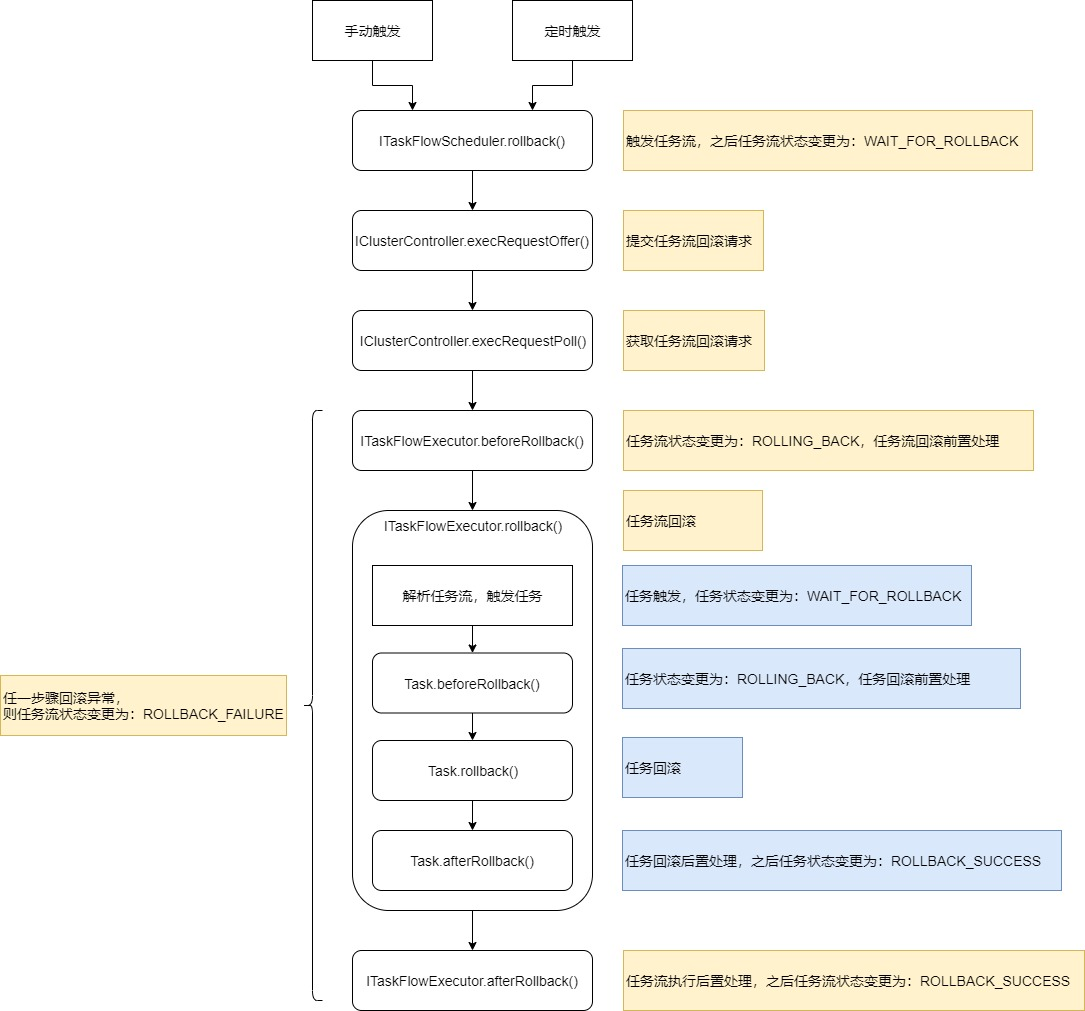
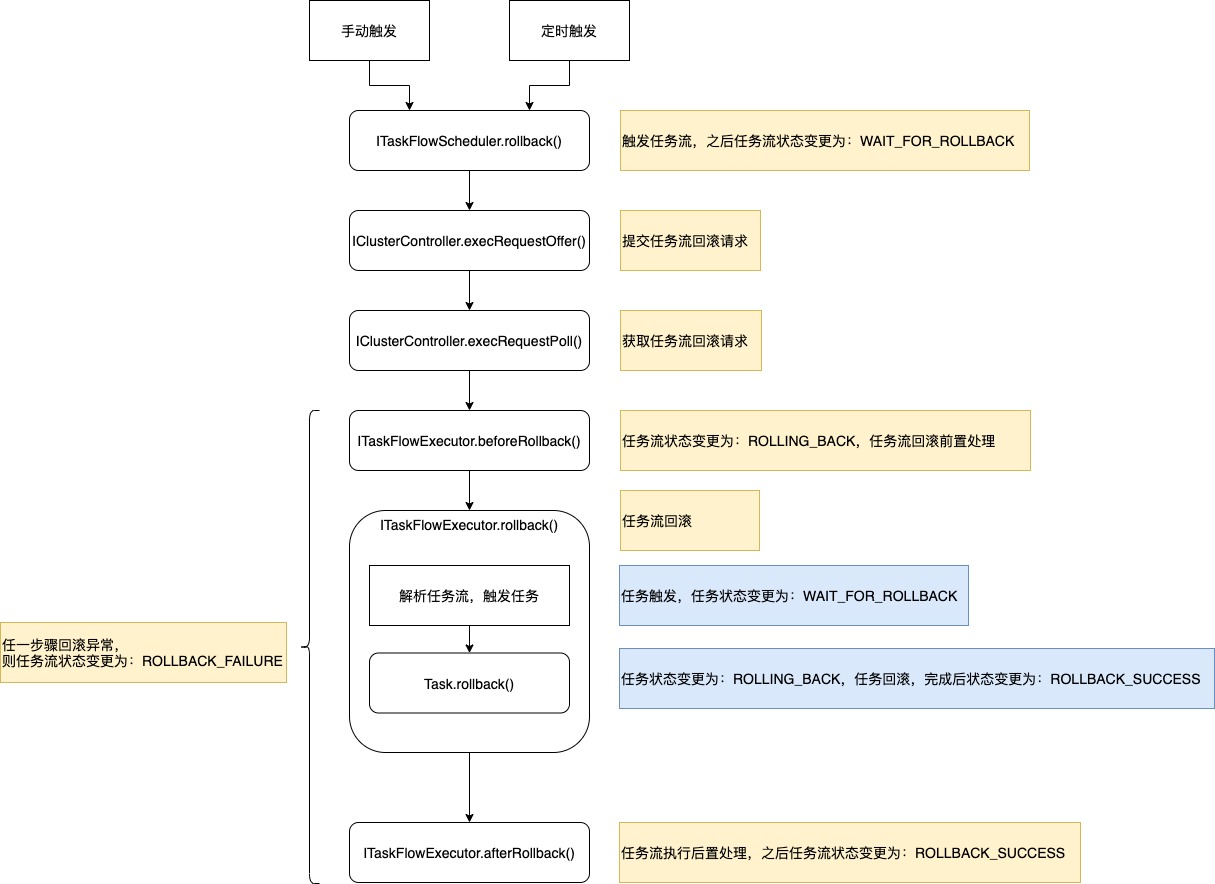
remove IMonitor, and simplify the interfaces of task

diff --git a/wolf-flow-core/src/main/java/me/kpali/wolfflow/core/executor/impl/DefaultTaskFlowExecutor.java b/wolf-flow-core/src/main/java/me/kpali/wolfflow/core/executor/impl/DefaultTaskFlowExecutor.java
@@ -22,7 +22,6 @@ import me.kpali.wolfflow.core.model.TaskContextKey;
 import me.kpali.wolfflow.core.model.TaskFlow;
 import me.kpali.wolfflow.core.model.TaskFlowContextKey;
 import me.kpali.wolfflow.core.model.TaskLog;
-import me.kpali.wolfflow.core.monitor.IMonitor;
 import me.kpali.wolfflow.core.util.IdGenerator;
 import me.kpali.wolfflow.core.util.TaskFlowUtils;
 import me.kpali.wolfflow.core.util.context.TaskContextWrapper;
@@ -71,9 +70,6 @@ public class DefaultTaskFlowExecutor implements ITaskFlowExecutor {
 
     @Autowired
     private IdGenerator idGenerator;
-
-    @Autowired
-    private IMonitor monitor;
 
     private static final long STATUS_CHECK_INTERVAL_MIN = 5;
     private static final long STATUS_CHECK_INTERVAL_MAX = 5000;
@@ -156,11 +152,6 @@ public class DefaultTaskFlowExecutor implements ITaskFlowExecutor {
                     taskFlowContextWrapper.putTaskContext(task.getId().toString(), lastTaskContext);
                 }
             }
-
-            // 预检查要执行的任务
-            for (Task task : executeTaskFlow.getTaskList()) {
-                task.executePreCheck(context);
-            }
         } catch (Exception e) {
             throw new TaskFlowExecuteException(e);
         }
@@ -183,7 +174,6 @@ public class DefaultTaskFlowExecutor implements ITaskFlowExecutor {
                                 new LinkedBlockingQueue<Runnable>(1024),
                                 this.executorThreadFactory,
                                 new ThreadPoolExecutor.AbortPolicy());
-                        this.monitor.monitor(this.executorThreadPool, "task-flow-executor");
                     }
                 }
             }
@@ -261,9 +251,7 @@ public class DefaultTaskFlowExecutor implements ITaskFlowExecutor {
                                     }
                                 }
                                 this.taskStatusEventPublisher.publishEvent(task, executeTaskFlow.getId(), context, statusCode, null, true);
-                                task.beforeExecute(context);
                                 task.execute(context);
-                                task.afterExecute(context);
                                 idToTaskStatusMap.put(task.getId(), TaskStatusEnum.EXECUTE_SUCCESS.getCode());
                                 this.taskStatusEventPublisher.publishEvent(task, executeTaskFlow.getId(), context, TaskStatusEnum.EXECUTE_SUCCESS.getCode(), null, true);
                             } catch (TaskInterruptedException e) {
@@ -424,11 +412,6 @@ public class DefaultTaskFlowExecutor implements ITaskFlowExecutor {
                     taskFlowContextWrapper.putTaskContext(task.getId().toString(), lastTaskContext);
                 }
             }
-
-            // 预检查要回滚的任务
-            for (Task task : rollbackTaskFlow.getTaskList()) {
-                task.rollbackPreCheck(context);
-            }
         } catch (Exception e) {
             throw new TaskFlowRollbackException(e);
         }
@@ -522,9 +505,7 @@ public class DefaultTaskFlowExecutor implements ITaskFlowExecutor {
                                     }
                                 }
                                 this.taskStatusEventPublisher.publishEvent(task, rollbackTaskFlow.getId(), context, statusCode, null, true);
-                                task.beforeRollback(context);
                                 task.rollback(context);
-                                task.afterRollback(context);
                                 idToTaskStatusMap.put(task.getId(), TaskStatusEnum.ROLLBACK_SUCCESS.getCode());
                                 this.taskStatusEventPublisher.publishEvent(task, rollbackTaskFlow.getId(), context, TaskStatusEnum.ROLLBACK_SUCCESS.getCode(), null, true);
                             } catch (TaskInterruptedException e) {

diff --git a/wolf-flow-core/src/main/java/me/kpali/wolfflow/core/model/Task.java b/wolf-flow-core/src/main/java/me/kpali/wolfflow/core/model/Task.java
@@ -38,35 +38,11 @@ public class Task implements Serializable {
         this.manual = manual;
     }
 
-    public void executePreCheck(ConcurrentHashMap<String, Object> context) throws TaskExecuteException {
-        // 不作任何操作
-    }
-
-    public void beforeExecute(ConcurrentHashMap<String, Object> context) throws TaskExecuteException {
-        // 不做任何操作
-    }
-
     public void execute(ConcurrentHashMap<String, Object> context) throws TaskExecuteException, TaskInterruptedException {
         // 不做任何操作
     }
 
-    public void afterExecute(ConcurrentHashMap<String, Object> context) throws TaskExecuteException {
-        // 不做任何操作
-    }
-
-    public void beforeRollback(ConcurrentHashMap<String, Object> context) throws TaskRollbackException {
-        // 不做任何操作
-    }
-
-    public void rollbackPreCheck(ConcurrentHashMap<String, Object> context) throws TaskRollbackException {
-        // 不作任何操作
-    }
-
     public void rollback(ConcurrentHashMap<String, Object> context) throws TaskRollbackException, TaskInterruptedException {
-        // 不做任何操作
-    }
-
-    public void afterRollback(ConcurrentHashMap<String, Object> context) throws TaskRollbackException {
         // 不做任何操作
     }
 

diff --git a/wolf-flow-core/src/main/java/me/kpali/wolfflow/core/scheduler/impl/DefaultTaskFlowScheduler.java b/wolf-flow-core/src/main/java/me/kpali/wolfflow/core/scheduler/impl/DefaultTaskFlowScheduler.java
@@ -26,7 +26,6 @@ import me.kpali.wolfflow.core.model.TaskFlowExecRequest;
 import me.kpali.wolfflow.core.model.TaskFlowLog;
 import me.kpali.wolfflow.core.model.TaskFlowStatus;
 import me.kpali.wolfflow.core.model.TaskLog;
-import me.kpali.wolfflow.core.monitor.IMonitor;
 import me.kpali.wolfflow.core.querier.ITaskFlowQuerier;
 import me.kpali.wolfflow.core.scheduler.ITaskFlowScheduler;
 import me.kpali.wolfflow.core.scheduler.impl.quartz.MyDynamicScheduler;
@@ -98,9 +97,6 @@ public class DefaultTaskFlowScheduler implements ITaskFlowScheduler {
     @Autowired
     private IdGenerator idGenerator;
 
-    @Autowired
-    private IMonitor monitor;
-
     @Override
     public void startup() {
         if (this.started) {
@@ -163,7 +159,6 @@ public class DefaultTaskFlowScheduler implements ITaskFlowScheduler {
                                             new LinkedBlockingQueue<Runnable>(1024),
                                             this.schedulerThreadFactory,
                                             new ThreadPoolExecutor.AbortPolicy());
-                                    this.monitor.monitor(this.schedulerThreadPool, "task-flow-scheduler");
                                 }
                             }
                         }

diff --git a/wolf-flow-core/src/main/java/me/kpali/wolfflow/core/launcher/Launcher.java b/wolf-flow-core/src/main/java/me/kpali/wolfflow/core/launcher/Launcher.java
@@ -1,7 +1,6 @@
 package me.kpali.wolfflow.core.launcher;
 
 import me.kpali.wolfflow.core.cluster.IClusterController;
-import me.kpali.wolfflow.core.monitor.IMonitor;
 import me.kpali.wolfflow.core.scheduler.ITaskFlowScheduler;
 import org.springframework.beans.factory.annotation.Autowired;
 import org.springframework.stereotype.Component;
@@ -14,14 +13,11 @@ import org.springframework.stereotype.Component;
 @Component
 public class Launcher {
     @Autowired
-    IMonitor monitor;
-    @Autowired
     ITaskFlowScheduler taskFlowScheduler;
     @Autowired
     IClusterController clusterController;
 
     public void startup() {
-        this.monitor.init();
         this.taskFlowScheduler.startup();
         this.clusterController.startup();
     }

diff --git a/wolf-flow-spring-boot-starter/src/main/java/me/kpali/wolfflow/autoconfigure/WolfFlowAutoConfiguration.java b/wolf-flow-spring-boot-starter/src/main/java/me/kpali/wolfflow/autoconfigure/WolfFlowAutoConfiguration.java
@@ -23,7 +23,6 @@ import org.springframework.context.annotation.Import;
         QuerierConfiguration.class,
         LoggerConfiguration.class,
         ClusterConfiguration.class,
-        MonitorConfiguration.class,
         LauncherConfiguration.class})
 @Configuration
 public class WolfFlowAutoConfiguration {
